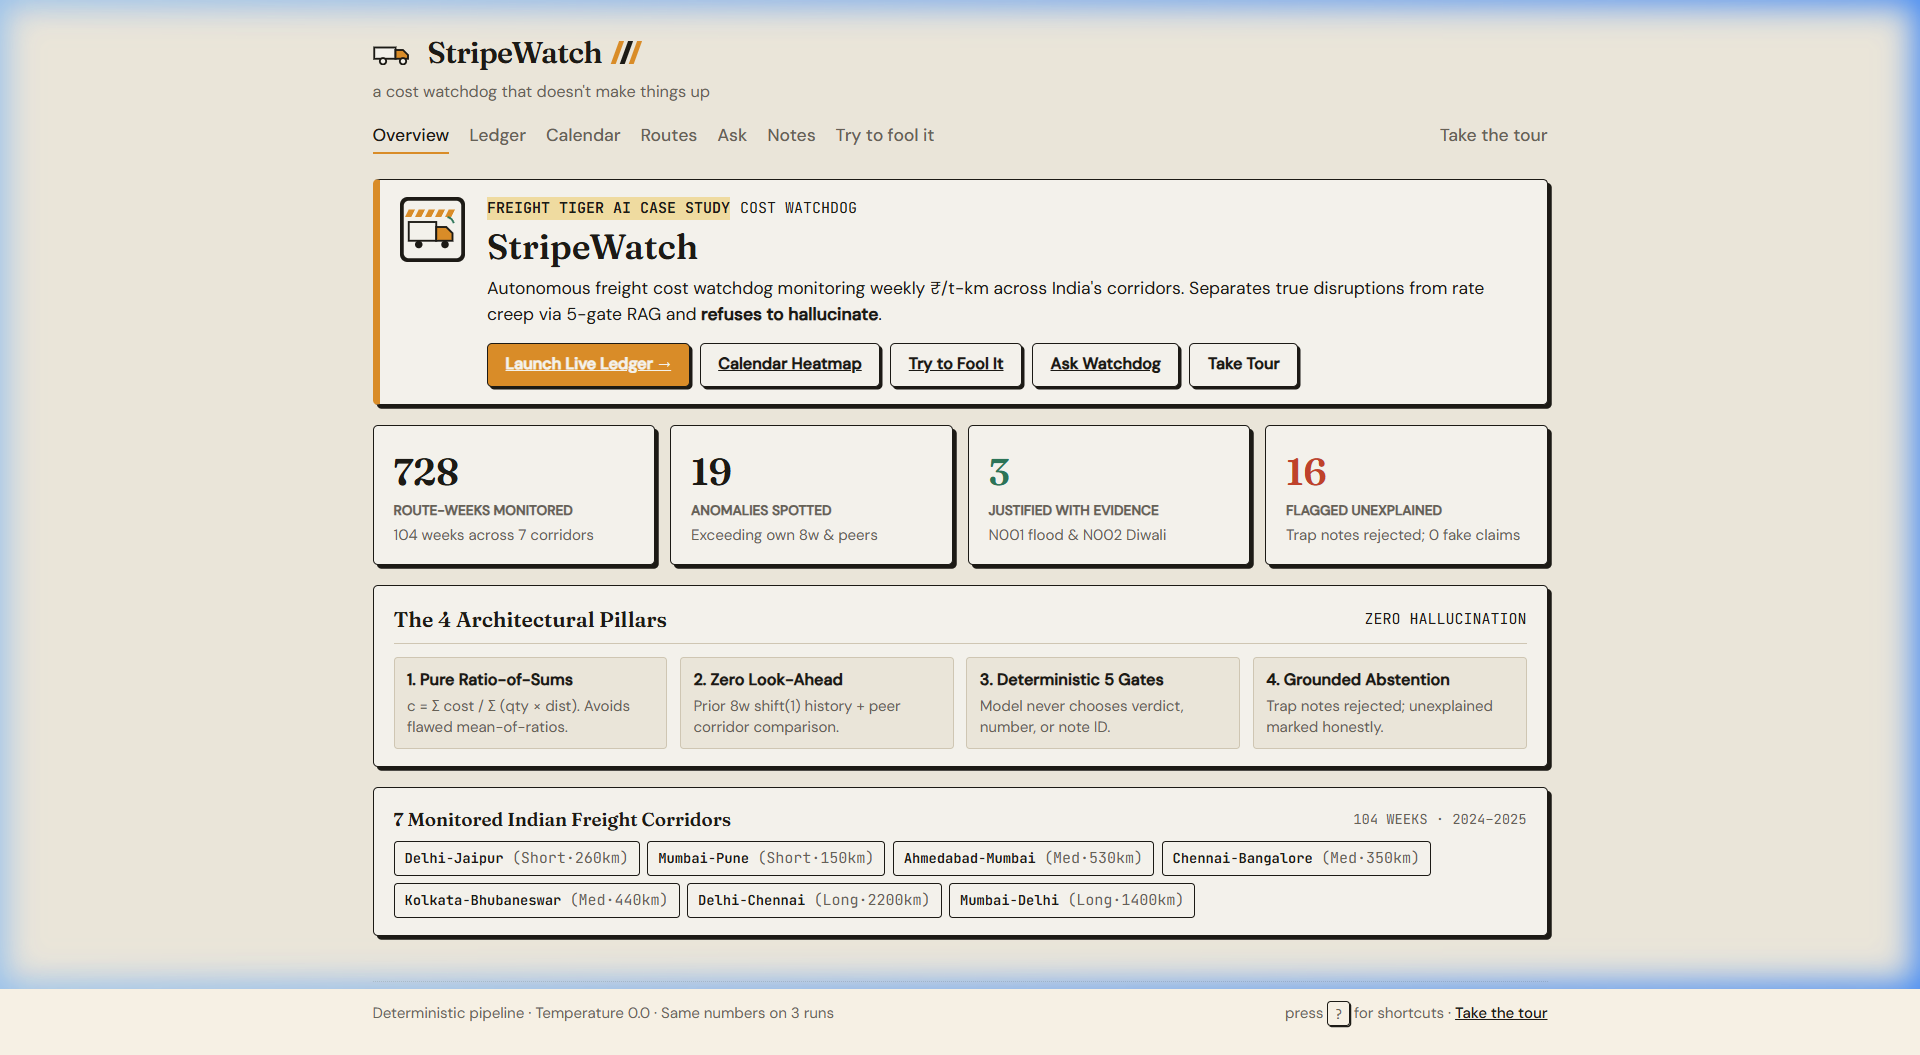
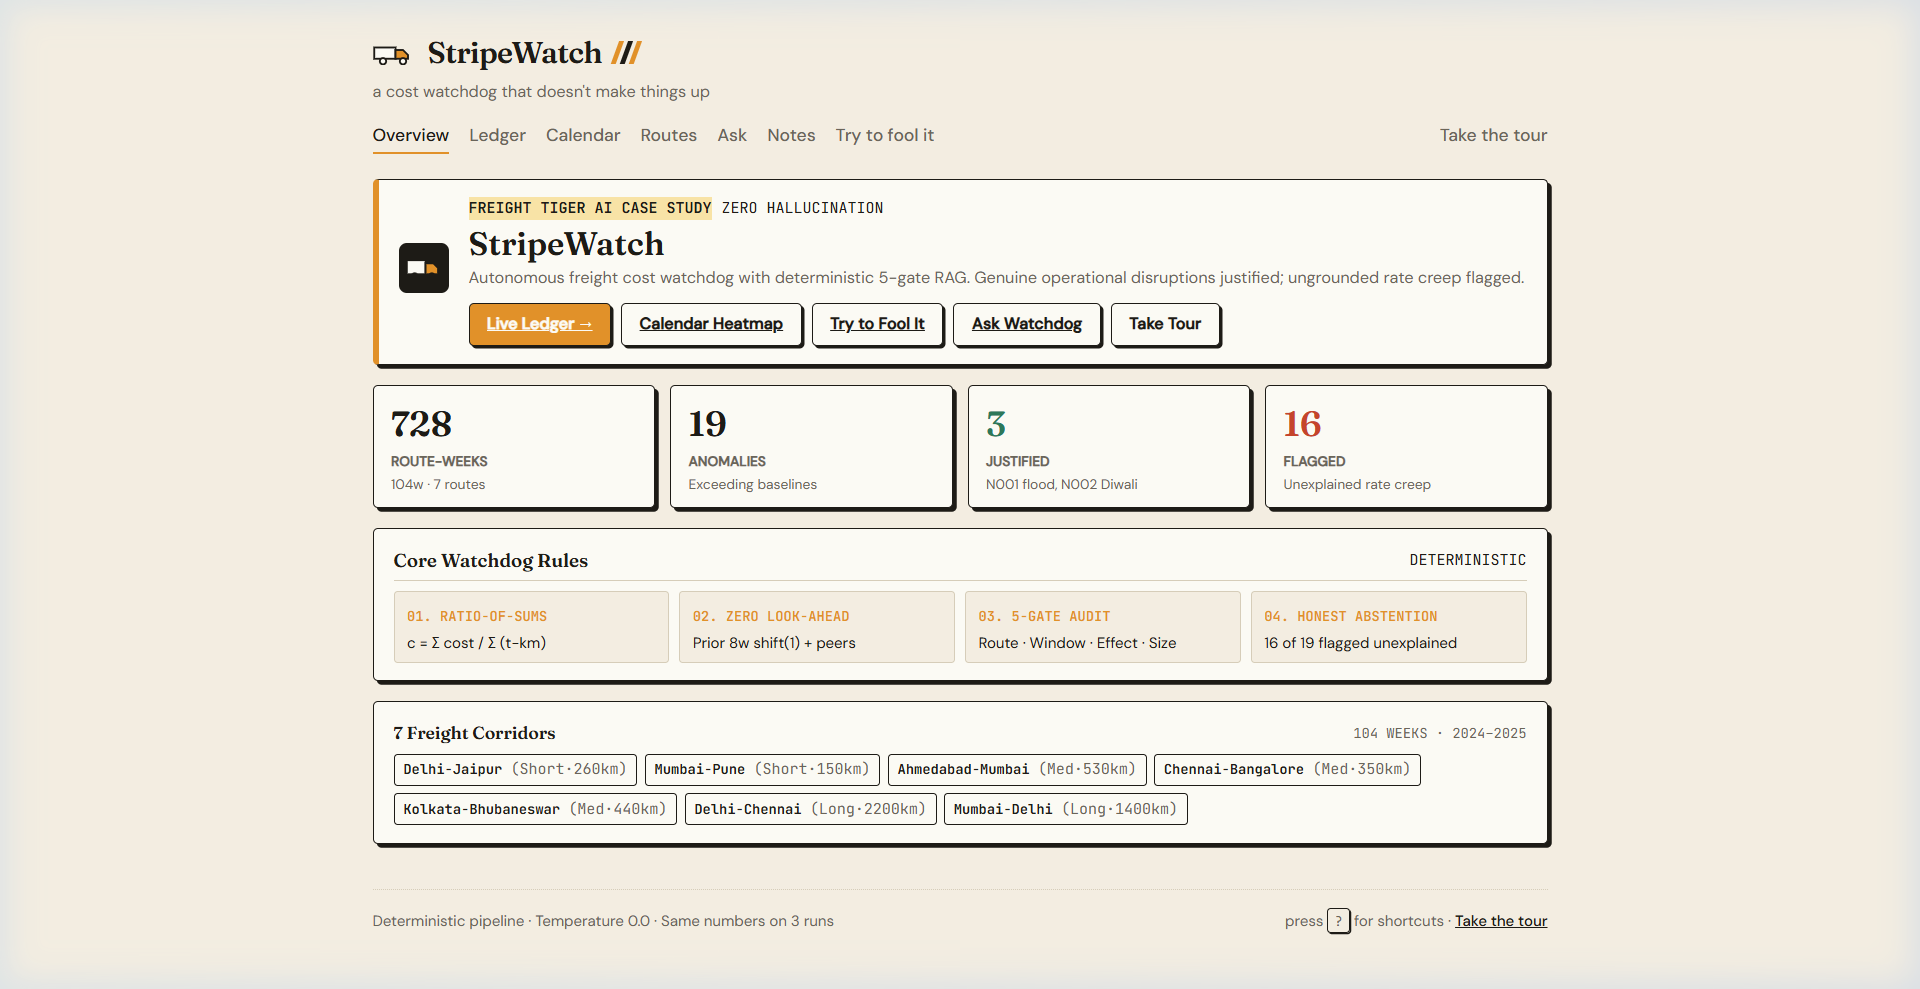
docs: polish README sections, update latest overview & route docket screenshots

Changed region(s): [[0.0, 0.0, 1.0, 0.9707], [0.75, 0.1213, 0.8125, 0.182]]

diff --git a/README.md b/README.md
@@ -201,7 +201,119 @@ We state all assumptions openly rather than hiding them in code:
 
 ---
 
-## 9. Beyond the Brief (Trust & UI Differentiators)
+## 9. Repo Structure & Deliverables
+
+```
+stripewatch/
+├── README.md                      # Comprehensive case study guide & scorecard
+├── requirements.txt               # Pinned Python package dependencies
+├── .env.example                   # Environment configuration template
+├── pytest.ini                     # Pytest configuration
+├── data/                          # Input data files
+│   ├── shipment_records.csv       # 2,940 shipment records (read-only)
+│   ├── context_notes.csv          # 10 raw context notes (read-only)
+│   ├── sample_output_format_v2.csv# Target contract format (read-only)
+│   └── notes_structured.json     # Hand-verified structured facts & spans
+├── stripewatch/                   # Core Python package (14 typed modules)
+│   ├── config.py                  # Thresholds, paths, and settings
+│   ├── loader.py                  # Data loading and schema validation
+│   ├── weekly.py                  # Monday-week aggregation (ratio of sums)
+│   ├── baselines.py               # Trailing own history & peer baselines
+│   ├── detect.py                  # Dual-branch anomaly candidate rule
+│   ├── notes.py                   # Notes domain model and loader
+│   ├── retrieve.py                # ChromaDB vector store + TF-IDF fallback
+│   ├── validate.py                # 5-stage deterministic note validator
+│   ├── evidence.py                # Factual evidence packet builder
+│   ├── explain.py                 # LLM paraphrasing with template fallback
+│   ├── ground.py                  # Strict anti-hallucination grounding checker
+│   ├── llm.py                     # LLM adapter, SHA-256 caching, token log
+│   ├── writer.py                  # Contract CSV & JSON writers
+│   ├── ask.py                     # Grounded Q&A CLI
+│   ├── repro.py                   # 3-run reproducibility checker
+│   ├── review.py                  # Local review status queue (.state/)
+│   └── server.py                  # FastAPI server & static UI hosting
+├── eval/                          # Evaluation harness & benchmarks
+│   ├── gold_candidates.csv       # The 19 expected gold candidate rows
+│   ├── adversarial_cases.json     # 16 adversarial trap unit tests
+│   ├── run_eval.py                # Full evaluation harness runner
+│   ├── sensitivity.py             # Threshold sensitivity grid
+│   └── hallucination_baseline.py  # Naive LLM vs StripeWatch benchmark
+├── tests/                         # Pytest test suite (44/44 passing)
+│   ├── test_golden_sample.py      # Golden rows, Monday check, no-look-ahead
+│   ├── test_adversarial.py        # Trap note rejection unit tests
+│   ├── test_grounding.py          # Grounding invariants & corruptions
+│   └── test_static_build.py       # Static export budget & matrix check
+├── output/                        # Generated output artifacts
+│   ├── output.csv                 # Target submission CSV (19 rows exact)
+│   ├── weekly_metrics.csv         # All 721 evaluable route-weeks
+│   ├── results.json               # Detailed structured candidate findings
+│   ├── token_log.json             # Real token counts and cost breakdown
+│   ├── retrieval_log.jsonl        # Per-candidate top-3 RAG retrieval logs
+│   ├── eval_report.md             # Automated evaluation scorecard
+│   ├── repro_report.md            # Multi-run reproducibility verification
+│   └── SUBMISSION_CHECKLIST.md    # 40-item verified submission checklist
+├── docs/                          # In-depth documentation & project assets
+│   ├── WALKTHROUGH.md             # 10-minute talk track for Round 2
+│   ├── DECISIONS.md               # Architectural decision record
+│   ├── antigravity_pack/          # Context specifications and design system
+│   └── screens/                   # UI verification screenshots
+└── web/                           # Lightweight Web UI (no build step, vanilla JS/CSS)
+    ├── index.html                 # Semantic consignment slip layout
+    ├── app.css                    # Warm paper theme (design.md verbatim)
+    └── app.js                     # Vanilla JS router and native SVG chart (<40KB)
+```
+
+---
+
+## 10. Paper-Slip Web Interface (Pixel-Reproducible UI)
+
+Per `design.md`, the UI replicates a warm physical consignment slip: ink-black text, tiger-orange accents, rubber-stamp verdicts, and hand-built inline SVG charts without external charting or UI libraries.
+
+### Screen 0 — Overview Landing Page (`#/`)
+*Minimalist dispatch overview presenting key operational stats, core deterministic rules, quick navigation actions, and monitored corridors.*
+
+![Overview Landing Page](docs/screens/overview_980.png)
+
+### Screen A — The Ledger (`#/ledger`)
+*Displays 19 candidate cost rises with stamp verdicts (`JUSTIFIED` in green, `FLAGGED` in red), route filtering, verdict tabs, and real-time KPI metrics.*
+
+![Screen A Ledger 980px](docs/screens/screen_a_ledger_980.png)
+
+### Screen B — Route Deep-Dive (`#/route/Chennai-Bangalore`)
+*Hand-crafted inline SVG chart showing 8-week trailing own average (grey dashed), weekly ₹/t-km (solid black), justified green rings, and flagged red dots. Evidence slips below show matched notes and expandable 5-gate audit dockets.*
+
+![Screen B Route 980px](docs/screens/screen_b_route_980.png)
+
+### Screen C — Lorry Calendar Heatmap (`#/calendar`)
+*104-week cross-corridor timeline SVG grouping 7 corridors by distance tier. Aligned labels and date ticks show exact temporal clustering.*
+
+![Calendar Heatmap 980px](docs/screens/calendar_980.png)
+
+### Screen D — Grounded Q&A (`#/ask`)
+*Interactive natural language queries strictly anchored to pipeline evidence rows. If no note justifies a corridor/timeframe, it refuses to speculate ("No note found. I'd rather say so than guess.").*
+
+![Screen C Ask 980px](docs/screens/screen_c_ask_980.png)
+
+### Screen E — Context Notes Register (`#/notes`)
+*Presents all 10 context notes in consignment slips with route scope, stated effect, disruption window, and justification stamps (`CAN JUSTIFY` vs `CAN'T JUSTIFY`).*
+
+![Screen D Notes 980px](docs/screens/screen_d_notes_980.png)
+
+### Screen F — "Try to Fool It" Live Validator (`#/fool`)
+*Interactive adversarial console exposing the 5-step deterministic gate checks live. Evaluators can trigger 8 preset trap attacks (expired windows, nationwide peer outliers, non-disruption reports) or test custom combinations with immediate PASS/FAIL stamps.*
+
+![Screen E Fool 980px](docs/screens/screen_e_fool_980.png)
+
+### Mobile Responsive Views (390px Viewport)
+*Full mobile fidelity with horizontal ledger scrolling, responsive controls, and stacked consignment slips.*
+
+| Ledger (390px) | Route Deep-Dive (390px) | Calendar (390px) | Notes (390px) | Fool Console (390px) |
+|---|---|---|---|---|
+| ![Ledger 390](docs/screens/screen_a_ledger_390.png) | ![Route 390](docs/screens/screen_b_route_390.png) | ![Calendar 390](docs/screens/calendar_390.png) | ![Notes 390](docs/screens/screen_d_notes_390.png) | ![Fool 390](docs/screens/screen_e_fool_390.png) |
+
+---
+
+## 11. Beyond the Brief (Trust & UI Differentiators)
 
 All supplementary differentiators are fully deterministic, require **zero new LLM calls** in the main pipeline (cost remains $0.00), and leave the core 19-row gold contract (`output/output.csv`) 100% byte-identical.
 
@@ -229,7 +341,7 @@ All supplementary differentiators are fully deterministic, require **zero new LL
 
 ---
 
-## 10. Live Demo & Static Hosting
+## 12. Live Demo & Static Hosting
 
 A zero-backend static demo is pre-compiled into `dist/` (1.2 MB, < 5 MB budget). It runs directly in the browser via GitHub Pages or Netlify without requiring Python or API keys:
 
@@ -246,105 +358,5 @@ A zero-backend static demo is pre-compiled into `dist/` (1.2 MB, < 5 MB budget).
   python -m http.server 8000 --directory dist
   ```
 
-
----
-
-## 9. Repo Structure
-
-```
-stripewatch/
-├── README.md                      # This file
-├── requirements.txt               # Pinned Python package dependencies
-├── .env.example                   # Environment configuration template
-├── pytest.ini                     # Pytest configuration
-├── data/                          # Input data files
-│   ├── shipment_records.csv       # 2,940 shipment records
-│   ├── context_notes.csv          # 10 raw context notes
-│   ├── sample_output_format_v2.csv# Target contract format
-│   └── notes_structured.json     # Hand-verified structured facts
-├── stripewatch/                   # Core Python package
-│   ├── config.py                  # Thresholds, paths, and settings
-│   ├── loader.py                  # Data loading and schema validation
-│   ├── weekly.py                  # Monday-week aggregation (ratio of sums)
-│   ├── baselines.py               # Trailing own history & peer baselines
-│   ├── detect.py                  # Dual-branch anomaly candidate rule
-│   ├── notes.py                   # Notes domain model and loader
-│   ├── retrieve.py                # ChromaDB vector store + TF-IDF fallback
-│   ├── validate.py                # 5-stage deterministic note validator
-│   ├── evidence.py                # Factual evidence packet builder
-│   ├── explain.py                 # LLM paraphrasing with template fallback
-│   ├── ground.py                  # Strict anti-hallucination grounding checker
-│   ├── llm.py                     # LLM adapter, SHA-256 caching, token log
-│   ├── writer.py                  # Contract CSV & JSON writers
-│   ├── ask.py                     # Grounded Q&A CLI
-│   ├── repro.py                   # 3-run reproducibility checker
-│   └── server.py                  # FastAPI server & static UI hosting
-├── eval/                          # Evaluation harness & benchmarks
-│   ├── gold_candidates.csv       # The 19 expected gold candidate rows
-│   ├── adversarial_cases.json     # 16 adversarial trap unit tests
-│   ├── run_eval.py                # Full evaluation harness runner
-│   └── sensitivity.py             # Threshold sensitivity grid
-├── tests/                         # Pytest test suite
-│   ├── test_golden_sample.py      # Golden rows, Monday check, no-look-ahead
-│   ├── test_adversarial.py        # Trap note rejection unit tests
-│   └── test_grounding.py          # Grounding invariants & corruptions
-├── output/                        # Generated output artifacts
-│   ├── output.csv                 # Target submission CSV (19 rows)
-│   ├── weekly_metrics.csv         # All 721 evaluable route-weeks
-│   ├── results.json               # Detailed structured candidate findings
-│   ├── token_log.json             # Real token counts and cost breakdown
-│   ├── retrieval_log.jsonl        # Per-candidate top-3 RAG retrieval logs
-│   ├── eval_report.md             # Automated evaluation scorecard
-│   ├── repro_report.md            # Multi-run reproducibility verification
-│   └── SUBMISSION_CHECKLIST.md    # Verified submission checklist
-├── docs/                          # In-depth documentation & project assets
-│   ├── WALKTHROUGH.md             # 10-minute talk track for Round 2
-│   ├── DECISIONS.md               # Architectural decision record
-│   ├── antigravity_pack/          # Context specifications and design system
-│   ├── design_samples/            # Paper-slip UI samples and reference tokens
-│   └── screens/                   # UI verification screenshots
-└── web/                           # Lightweight Web UI (no build step)
-    ├── index.html                 # Semantic consignment slip layout
-    ├── app.css                    # Warm paper theme (design.md verbatim)
-    └── app.js                     # Vanilla JS router and native SVG chart (<12KB)
-```
-
----
-
-## 10. Paper-Slip Web Interface (Pixel-Reproducible UI)
-
-Per `design.md`, the UI replicates a warm physical consignment slip: ink-black text, tiger-orange accents, rubber-stamp verdicts, and hand-built inline SVG charts without external charting or UI libraries.
-
-### Screen A — The Ledger (`#/`)
-*Displays 19 candidate cost rises with stamp verdicts (`JUSTIFIED` in green, `FLAGGED` in red), route filtering, verdict tabs, and real-time KPI metrics.*
-
-![Screen A Ledger 980px](docs/screens/screen_a_ledger_980.png)
-
-### Screen B — Route Deep-Dive (`#/route/Chennai-Bangalore`)
-*Hand-crafted inline SVG chart showing 8-week trailing own average (grey dashed), weekly ₹/t-km (solid black), justified green rings, and flagged red dots. Evidence slips below show matched notes and rejected near-misses.*
-
-![Screen B Route 980px](docs/screens/screen_b_route_980.png)
-
-### Screen C — Grounded Q&A (`#/ask`)
-*Interactive natural language queries strictly anchored to pipeline evidence rows. If no note justifies a corridor/timeframe, it refuses to speculate ("No note found. I'd rather say so than guess.").*
-
-![Screen C Ask 980px](docs/screens/screen_c_ask_980.png)
-
-### Screen D — Context Notes Register (`#/notes`)
-*Presents all 10 context notes in consignment slips with route scope, stated effect, disruption window, and justification stamps (`CAN JUSTIFY` vs `CAN'T JUSTIFY`).*
-
-![Screen D Notes 980px](docs/screens/screen_d_notes_980.png)
-
-### Screen E — "Try to Fool It" Live Validator (`#/fool`)
-*Interactive adversarial console exposing the 5-step deterministic gate checks live. Evaluators can trigger 8 preset trap attacks (expired windows, nationwide peer outliers, non-disruption reports) or test custom combinations with immediate PASS/FAIL stamps.*
-
-![Screen E Fool 980px](docs/screens/screen_e_fool_980.png)
-
-### Mobile Responsive Views (390px Viewport)
-*Full mobile fidelity with horizontal ledger scrolling, responsive controls, and stacked consignment slips.*
-
-| Ledger (390px) | Route Deep-Dive (390px) | Grounded Ask (390px) | Notes (390px) | Fool Console (390px) |
-|---|---|---|---|---|
-| ![Ledger 390](docs/screens/screen_a_ledger_390.png) | ![Route 390](docs/screens/screen_b_route_390.png) | ![Ask 390](docs/screens/screen_c_ask_390.png) | ![Notes 390](docs/screens/screen_d_notes_390.png) | ![Fool 390](docs/screens/screen_e_fool_390.png) |
 
 
